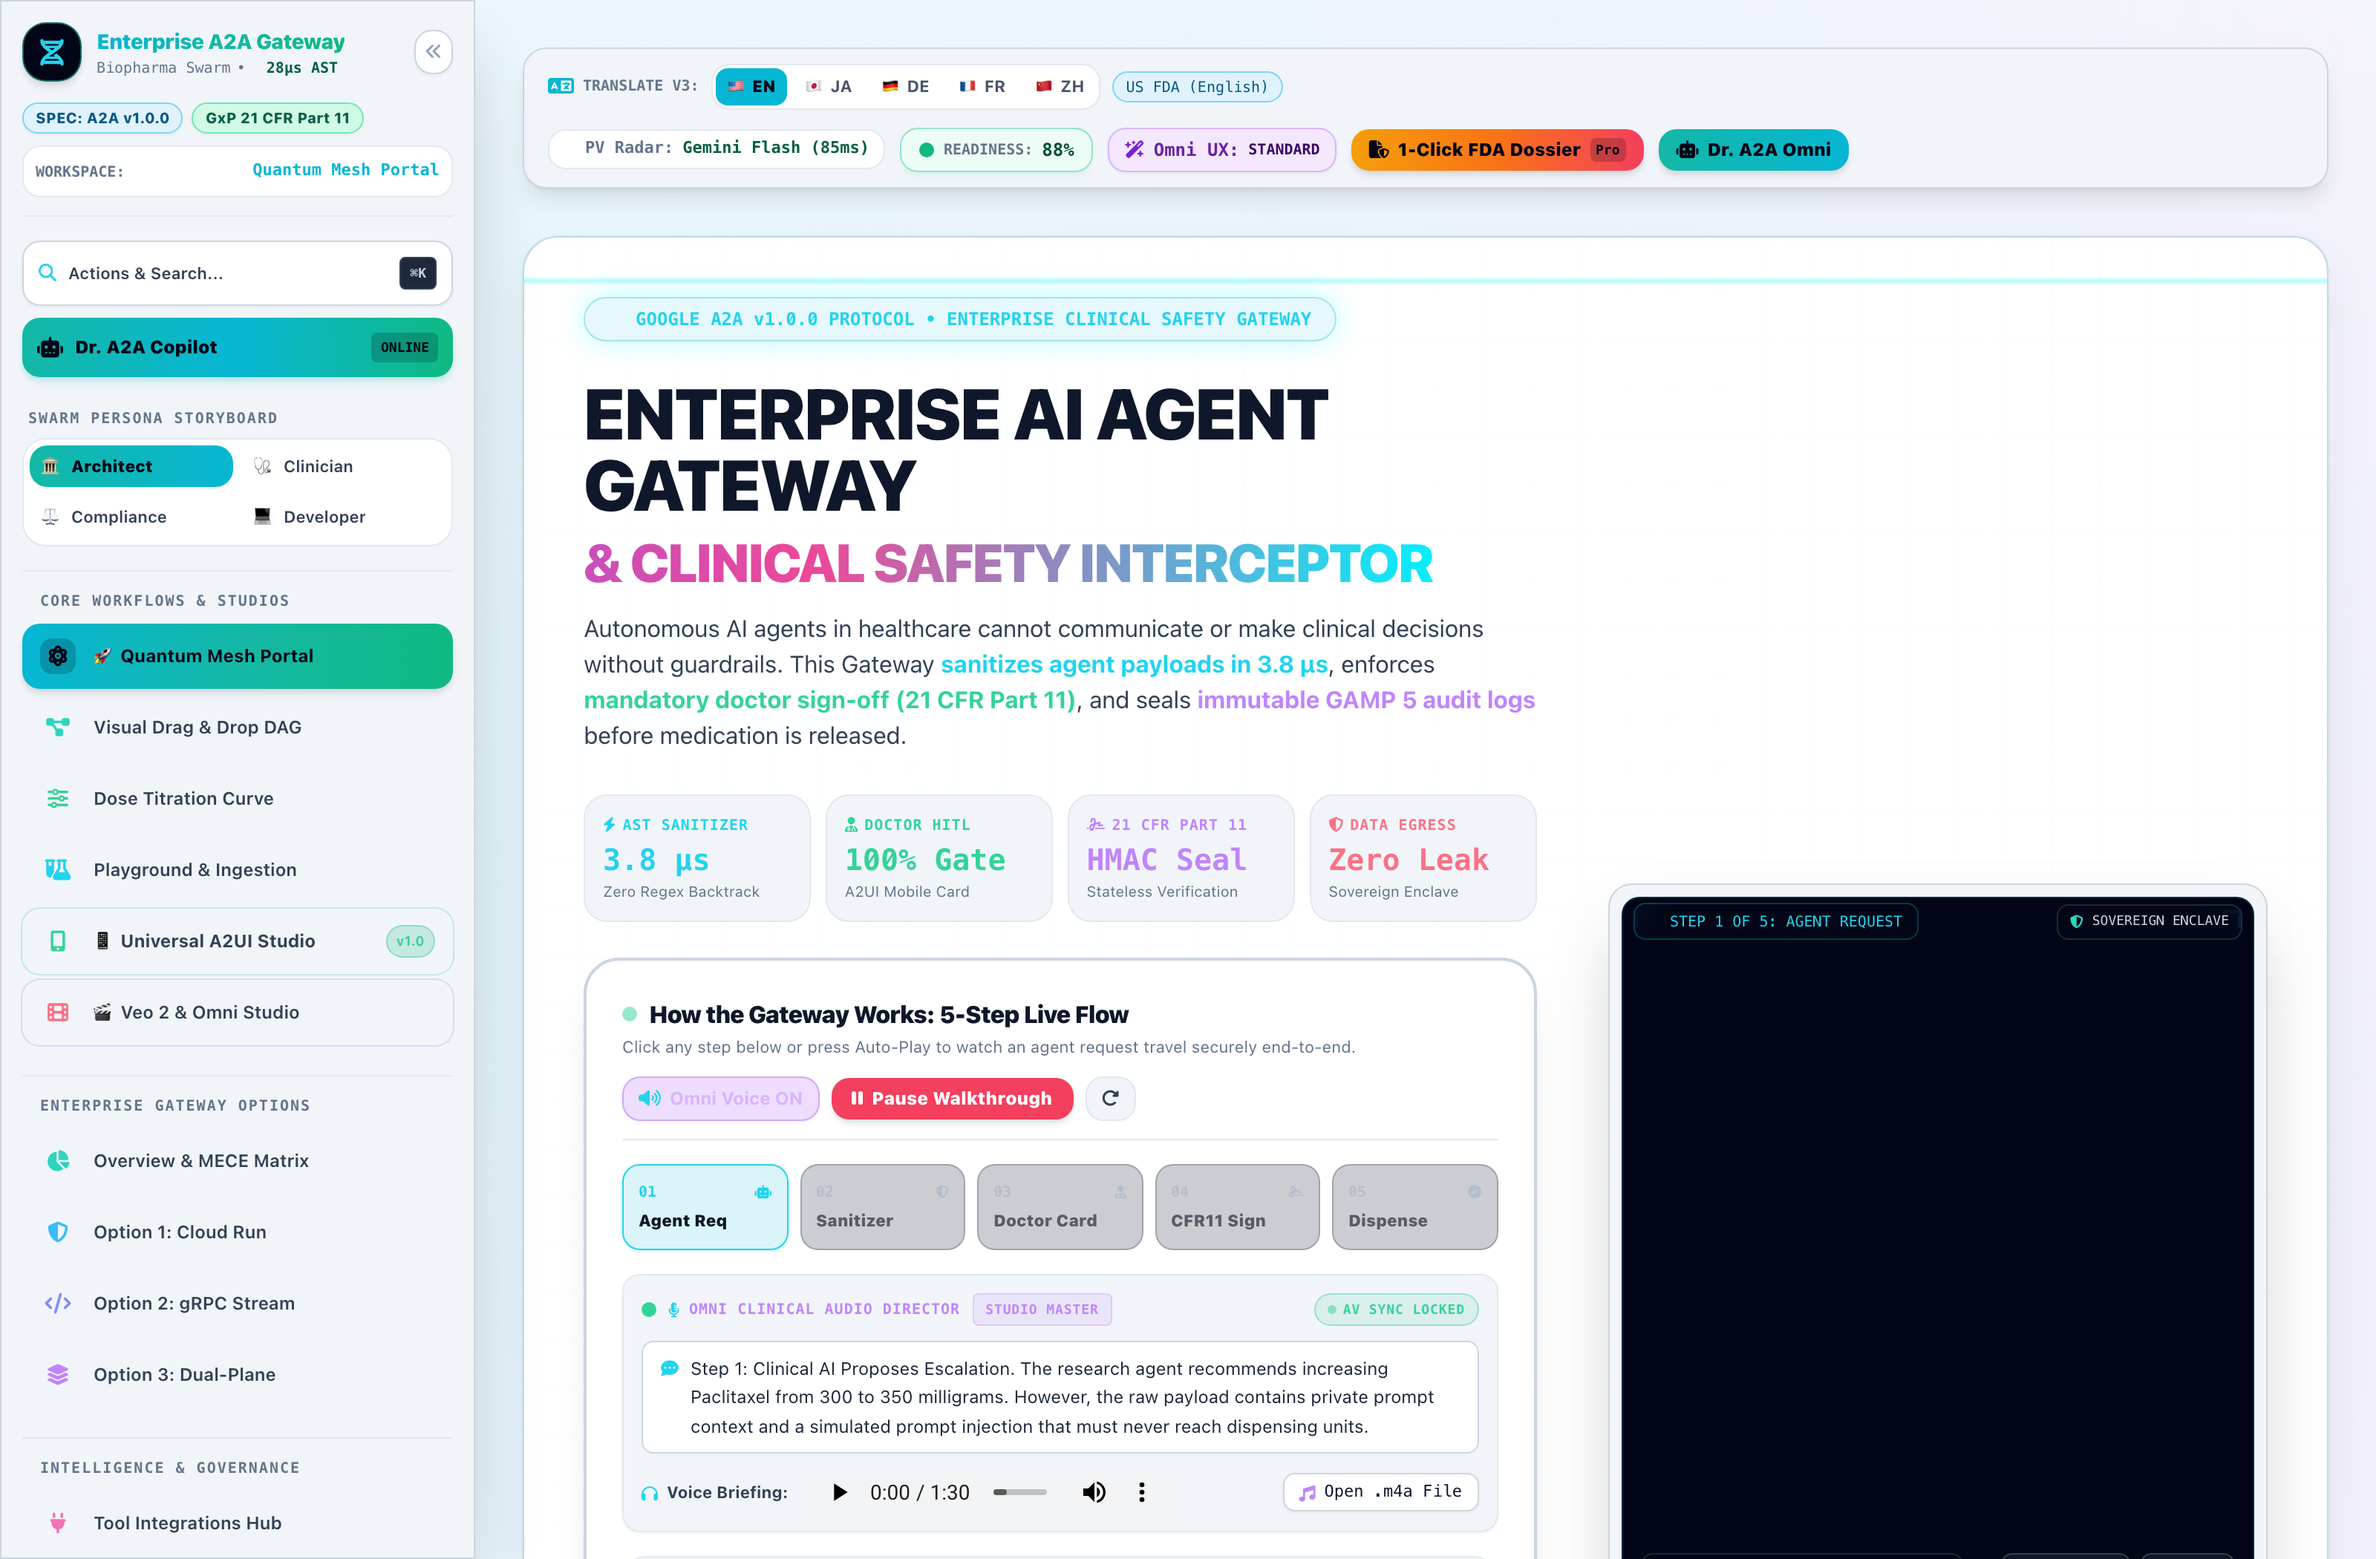
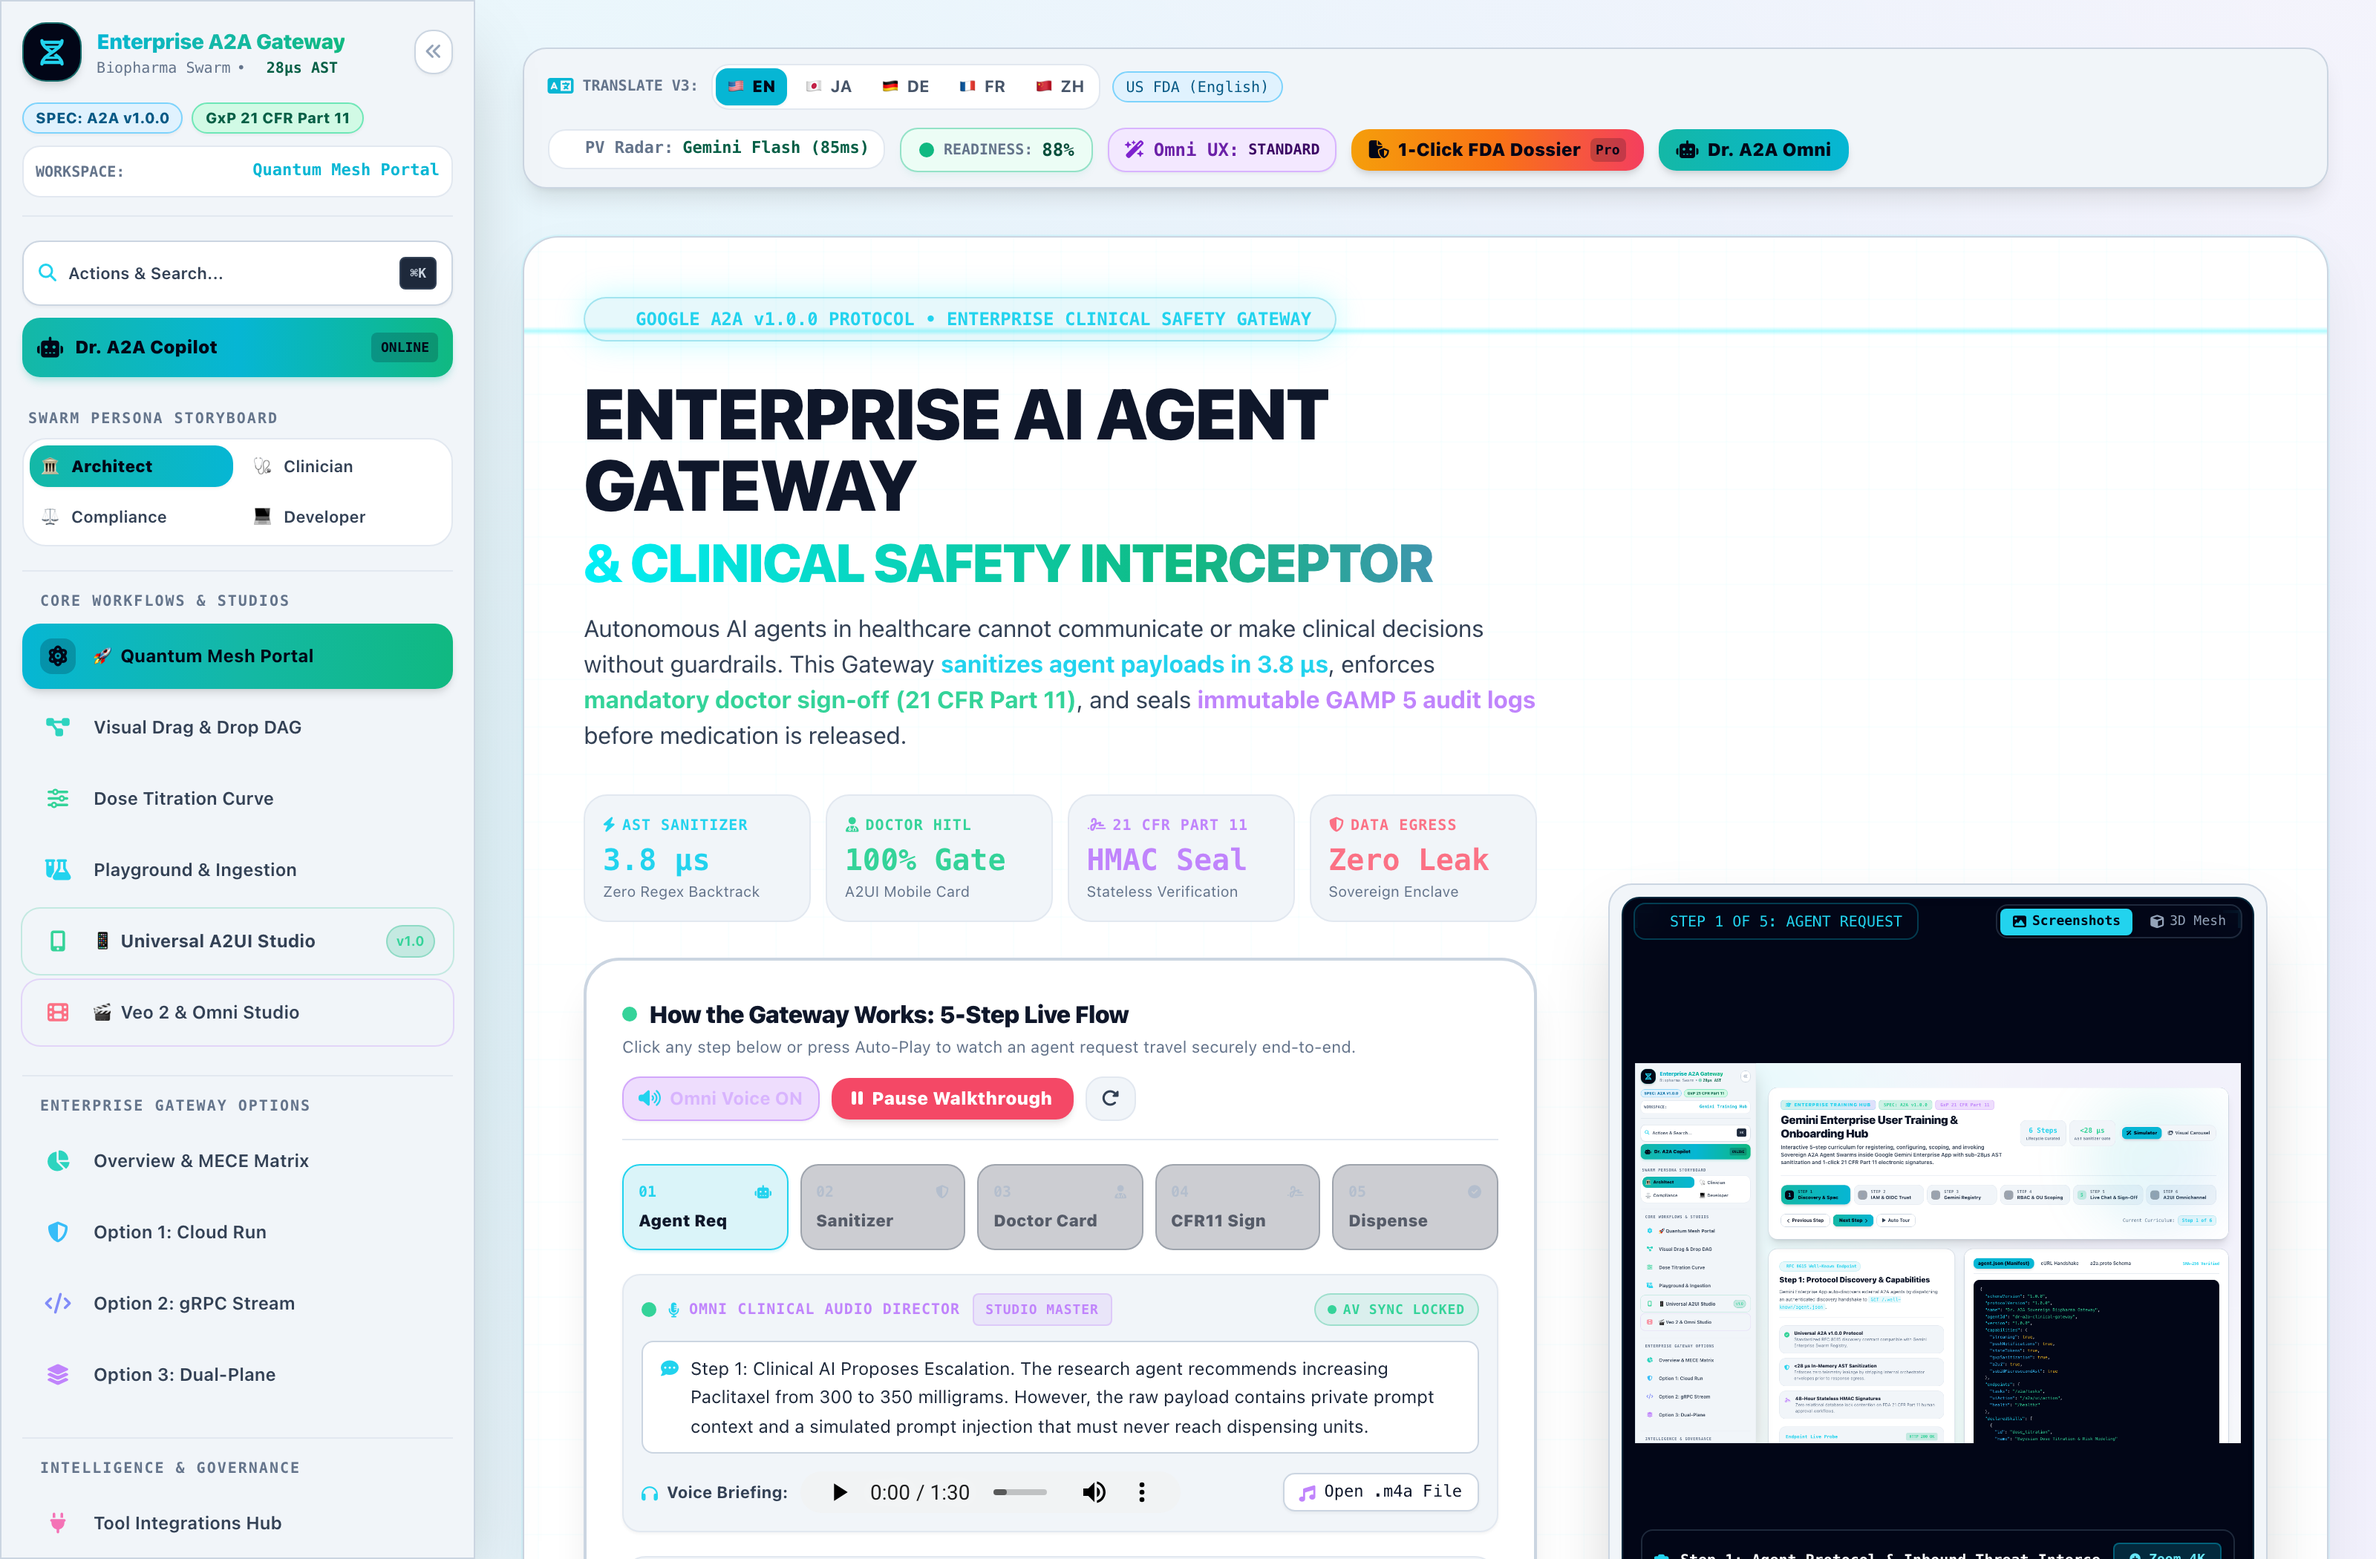
feat(hero): integrate synchronized architecture screenshot stage with 3D toggle into audio demo

diff --git a/portal/static/portal.html b/portal/static/portal.html
@@ -1250,18 +1250,57 @@
               
               <!-- Cyber HUD Header Overlay -->
               <div class="absolute top-3 left-4 right-4 z-20 flex items-center justify-between pointer-events-none">
-                <div class="flex items-center space-x-2 px-2.5 py-1 rounded-lg bg-slate-950/80 border border-cyan-500/30 text-[10px] font-mono text-cyan-400 backdrop-blur-md">
+                <div class="flex items-center space-x-2 px-2.5 py-1 rounded-lg bg-slate-950/85 border border-cyan-500/30 text-[10px] font-mono text-cyan-400 backdrop-blur-md pointer-events-auto shadow-sm">
                   <span class="w-1.5 h-1.5 rounded-full bg-emerald-400 animate-ping"></span>
                   <span x-text="'STEP ' + heroWorkflowStep + ' OF 5: ' + (heroWorkflowStep === 1 ? 'AGENT REQUEST' : (heroWorkflowStep === 2 ? 'AST SANITIZING' : (heroWorkflowStep === 3 ? 'DOCTOR REVIEW' : (heroWorkflowStep === 4 ? 'CFR11 SIGNING' : 'DISPENSED'))))"></span>
                 </div>
-                <div class="flex items-center space-x-1.5 px-2 py-1 rounded-lg bg-slate-950/80 border border-slate-700/60 text-[9px] font-mono text-slate-300 backdrop-blur-md">
-                  <i class="fa-solid fa-shield-halved text-teal-400"></i>
-                  <span>SOVEREIGN ENCLAVE</span>
+                <!-- Dual-Mode Switcher: High-Res Screenshots vs 3D WebGL Mesh -->
+                <div class="flex items-center space-x-1 p-0.5 rounded-lg bg-slate-950/85 border border-slate-700/60 backdrop-blur-md pointer-events-auto text-[9px] font-mono shadow-md">
+                  <button id="btn-hero-stage-screenshot" @click="heroRightStageMode = 'screenshot'" 
+                    class="px-2 py-0.5 rounded transition-all flex items-center space-x-1" 
+                    :class="heroRightStageMode === 'screenshot' ? 'bg-cyan-400 text-slate-950 font-bold shadow' : 'text-slate-400 hover:text-white'">
+                    <i class="fa-solid fa-image"></i>
+                    <span>Screenshots</span>
+                  </button>
+                  <button id="btn-hero-stage-3d" @click="heroRightStageMode = '3d'" 
+                    class="px-2 py-0.5 rounded transition-all flex items-center space-x-1" 
+                    :class="heroRightStageMode === '3d' ? 'bg-cyan-400 text-slate-950 font-bold shadow' : 'text-slate-400 hover:text-white'">
+                    <i class="fa-solid fa-cube"></i>
+                    <span>3D Mesh</span>
+                  </button>
                 </div>
               </div>
 
-              <!-- Interactive 3D WebGL Canvas -->
-              <div class="w-full h-[400px] sm:h-[460px] md:h-[480px] relative rounded-xl overflow-hidden bg-slate-950 border border-cyan-500/20 shadow-inner">
+              <!-- Viewport 1: High-Res Visual Screenshots Synchronized with Voiceover -->
+              <div x-show="heroRightStageMode === 'screenshot'" class="w-full h-[400px] sm:h-[460px] md:h-[480px] relative rounded-xl overflow-hidden bg-slate-950 border border-cyan-500/20 shadow-inner flex items-center justify-center p-2 group">
+                <img :src="getHeroStepScreenshot(heroWorkflowStep)" :alt="'Step ' + heroWorkflowStep + ' Architecture Screenshot'" class="w-full h-full object-contain rounded-lg transition-all duration-300">
+
+                <!-- HUD Corner Crosshairs -->
+                <div class="absolute top-2 left-2 w-3 h-3 border-t-2 border-l-2 border-cyan-400 pointer-events-none"></div>
+                <div class="absolute top-2 right-2 w-3 h-3 border-t-2 border-r-2 border-cyan-400 pointer-events-none"></div>
+                <div class="absolute bottom-2 left-2 w-3 h-3 border-b-2 border-l-2 border-cyan-400 pointer-events-none"></div>
+                <div class="absolute bottom-2 right-2 w-3 h-3 border-b-2 border-r-2 border-cyan-400 pointer-events-none"></div>
+
+                <!-- Floating Bottom Caption & Zoom Bar -->
+                <div class="absolute bottom-3 left-3 right-3 z-20 flex items-center justify-between p-2 rounded-lg bg-slate-950/85 border border-slate-800 text-[10px] font-mono text-slate-300 backdrop-blur-md">
+                  <div class="flex items-center space-x-2 truncate">
+                    <i class="fa-solid fa-camera text-cyan-400"></i>
+                    <span class="font-bold text-white truncate" x-text="getHeroStepScreenshotTitle(heroWorkflowStep)"></span>
+                  </div>
+                  <button id="btn-hero-zoom-screenshot" @click="openGalleryZoom({
+                    title: getHeroStepScreenshotTitle(heroWorkflowStep),
+                    darkImg: getHeroStepScreenshot(heroWorkflowStep, true),
+                    lightImg: getHeroStepScreenshot(heroWorkflowStep, false),
+                    desc: getHeroStepScript(heroWorkflowStep)
+                  })" class="px-2.5 py-1 rounded bg-cyan-500/20 hover:bg-cyan-500/30 text-cyan-300 border border-cyan-500/40 text-[9px] font-bold flex items-center space-x-1 shrink-0 transition-all active:scale-95 shadow-sm">
+                    <i class="fa-solid fa-magnifying-glass-plus"></i>
+                    <span>Zoom 4K</span>
+                  </button>
+                </div>
+              </div>
+
+              <!-- Viewport 2: Interactive 3D WebGL Canvas -->
+              <div x-show="heroRightStageMode === '3d'" class="w-full h-[400px] sm:h-[460px] md:h-[480px] relative rounded-xl overflow-hidden bg-slate-950 border border-cyan-500/20 shadow-inner" style="display: none;">
                 <canvas id="quantum-mesh-canvas" class="w-full h-full cursor-grab active:cursor-grabbing block"></canvas>
 
                 <!-- HUD Corner Crosshairs -->
@@ -8416,6 +8455,7 @@ gcloud run services add-iam-policy-binding <span class="text-cyan-400">a2a-gatew
         heroVoiceSpeaking: false,
         heroCurrentNarrationText: '',
         heroAudioCtx: null,
+        heroRightStageMode: 'screenshot',
         landing3dWireframeVisible: true,
         landing3dCoreGroup: null,
         landing3dWireMesh: null,
@@ -11236,6 +11276,35 @@ gcloud run services add-iam-policy-binding <span class="text-cyan-400">a2a-gatew
               return "Step 5: Pharmacy Dispenser Executes and Seals Audit Trail. With the signature verified and the anti-replay nonce consumed, the hospital dispenser releases 350 milligrams. An immutable GAMP 5 compliance receipt is recorded.";
             default:
               return "";
+          }
+        },
+
+        getHeroStepScreenshot(step, forceDark = null) {
+          const dark = forceDark !== null ? forceDark : this.isDark;
+          switch(step) {
+            case 1:
+              return dark ? '/static/screenshots/dark_training_01_protocol_discovery.png' : '/static/screenshots/light_training_01_protocol_discovery.png';
+            case 2:
+              return dark ? '/static/screenshots/dark_training_02_iam_oidc.png' : '/static/screenshots/light_training_02_iam_oidc.png';
+            case 3:
+              return dark ? '/static/screenshots/dark_training_05_chat_card.png' : '/static/screenshots/light_training_05_chat_card.png';
+            case 4:
+              return dark ? '/static/screenshots/dark_training_06_hitl_approved_seal.png' : '/static/screenshots/light_training_06_hitl_approved_seal.png';
+            case 5:
+              return dark ? '/static/screenshots/dark_11_hitl_signed.png' : '/static/screenshots/light_11_hitl_signed.png';
+            default:
+              return dark ? '/static/screenshots/dark_training_01_protocol_discovery.png' : '/static/screenshots/light_training_01_protocol_discovery.png';
+          }
+        },
+
+        getHeroStepScreenshotTitle(step) {
+          switch(step) {
+            case 1: return 'Step 1: Agent Protocol & Inbound Threat Interceptor';
+            case 2: return 'Step 2: Sub-28µs In-Memory AST Sanitization Engine';
+            case 3: return 'Step 3: Universal Doctor Review Card (A2UI Multi-Channel)';
+            case 4: return 'Step 4: Stateless 21 CFR Part 11 HMAC-SHA256 Seal';
+            case 5: return 'Step 5: Hospital Pharmacy Dispense & GAMP 5 Ledger';
+            default: return 'Clinical Architecture Blueprint';
           }
         },
 
